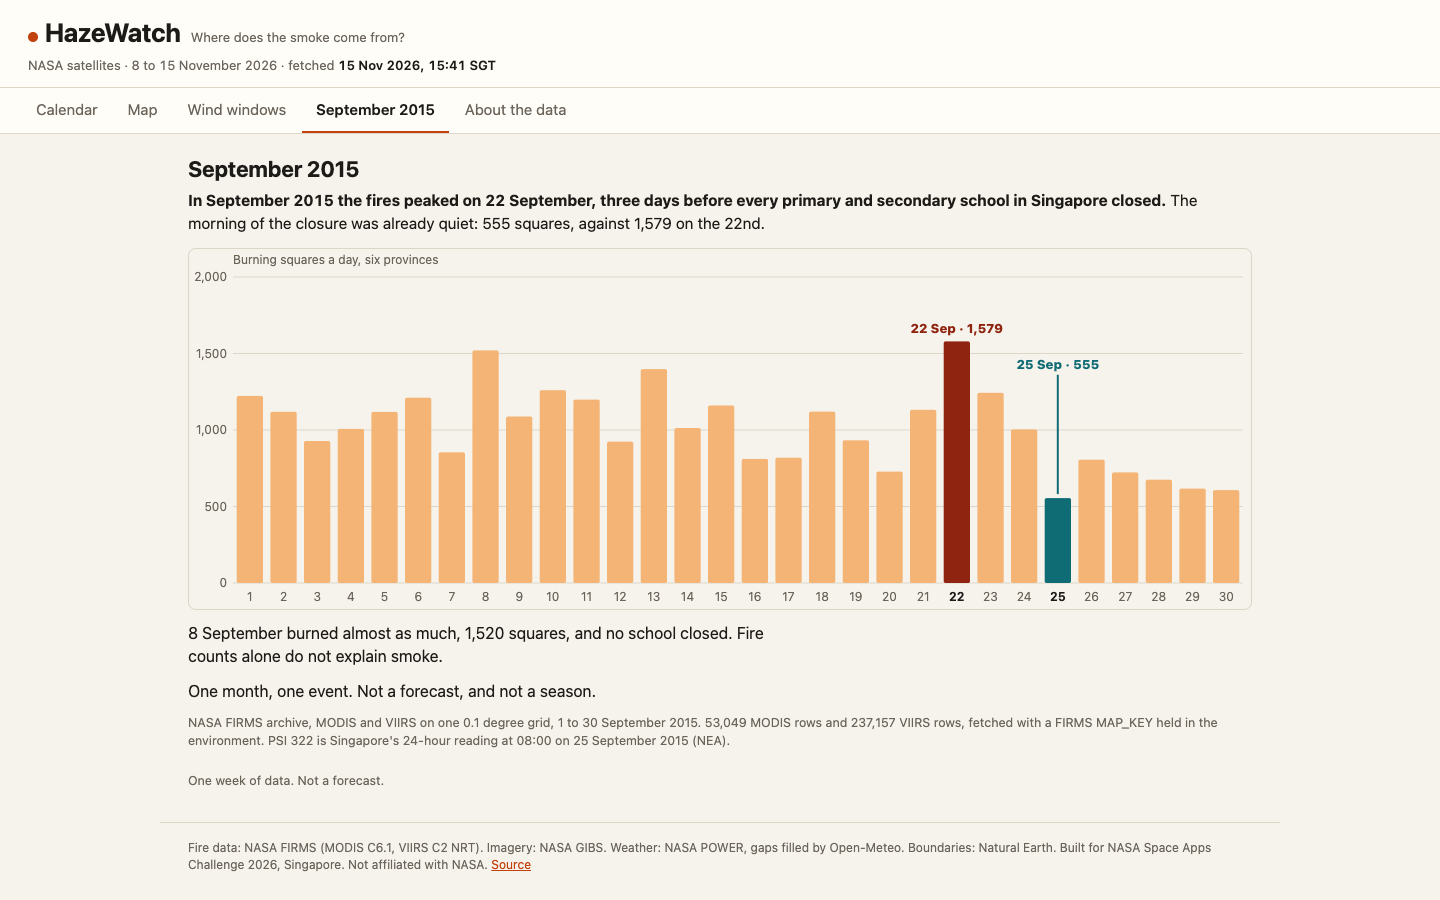
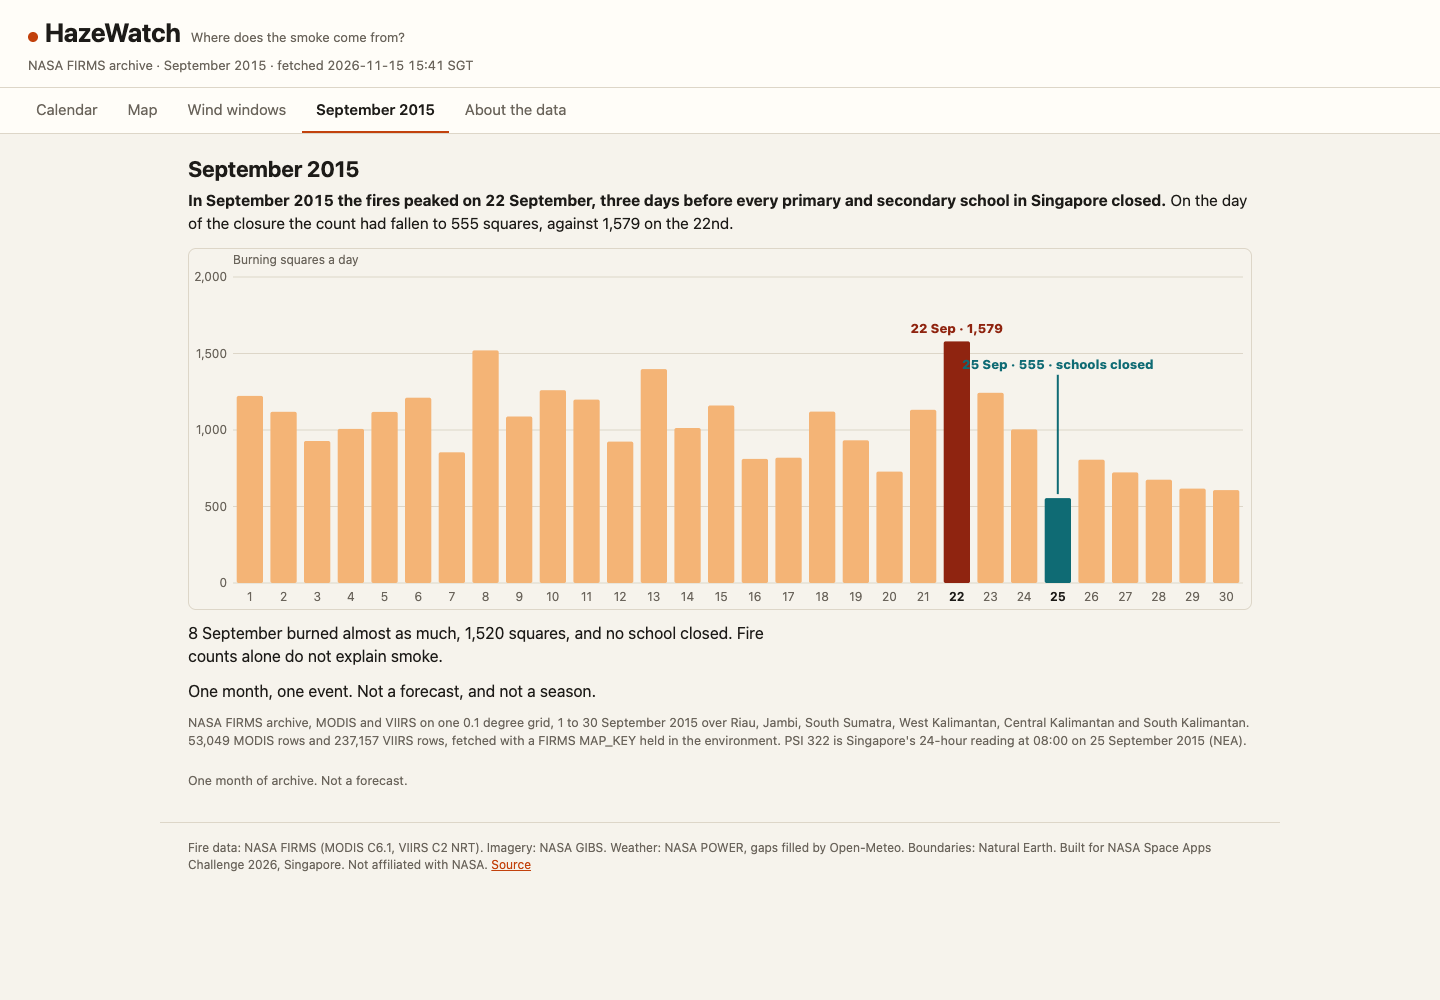
Site 2015 view: match the header to the page, name the provinces, date the bar
Five things a judge flagged on the live page:
- the header still said 8 to 15 November 2026 while the view is September 2015;
- the footer said one week of data, contradicting one month of archive;
- the chart title said six provinces without naming them;
- 'the morning of the closure' implied a morning count, but 555 is a whole day;
- the closure bar said 555 with no reason.

Stamp and footer are now view-aware, the provinces are named in the source line,
the sentence says 'on the day', and the bar reads '555 · schools closed'.

diff --git a/assets/app.js b/assets/app.js
@@ -48,6 +48,11 @@
     VIEWS.forEach((x) => { $("view-" + x).hidden = x !== v; });
     document.querySelectorAll(".tabs a").forEach((a) => a.classList.toggle("on", a.dataset.view === v));
     if (push) history.pushState(null, "", "?view=" + v + (v === "wind" ? "&p=" + prov : ""));
+    if ($("oneweek")) $("oneweek").textContent = v === "2015" ? "One month of archive. Not a forecast." : "One week of data. Not a forecast.";
+    if (S && S.meta) {
+      if (v === "2015") $("stamp").innerHTML = "NASA FIRMS archive · September 2015 · fetched " + esc(S.meta.fetched_sgt);
+      else renderHeader();
+    }
     if (v === "map") renderMap();
     if (v === "2015") renderArchive();
     const on = document.querySelector(".tabs a.on");
@@ -245,13 +250,13 @@
     const second = dates.filter((d) => d !== peak).reduce((a, d) => (T[d] > T[a] ? d : a), dates.find((d) => d !== peak));
     const lead = Math.round((new Date(closure) - new Date(peak)) / 864e5);
     $("arc-lede").innerHTML = "<b>In " + MONTH[+peak.slice(5, 7) - 1] + " " + peak.slice(0, 4) + " the fires peaked on " + longDay(peak) + ", " + (WORDS[lead] || lead) +
-      " days before every primary and secondary school in Singapore closed.</b> The morning of the closure was already quiet: " + fmt(T[closure]) +
+      " days before every primary and secondary school in Singapore closed.</b> On the day of the closure the count had fallen to " + fmt(T[closure]) +
       " squares, against " + fmt(T[peak]) + " on the " + ordinal(dayNum(peak)) + ".";
     $("arc-honest").textContent = second !== closure
       ? longDay(second) + " burned almost as much, " + fmt(T[second]) + " squares, and no school closed. Fire counts alone do not explain smoke." : "";
     const w = ARC.params.window, rows = ARC.rows_fetched;
     $("arc-small").textContent = "NASA FIRMS archive, MODIS and VIIRS on one " + ARC.params.cell_deg + " degree grid, " + dayNum(w[0]) + " to " + longDay(w[1]) + " " + w[1].slice(0, 4) +
-      ". " + fmt(rows.MODIS_SP) + " MODIS rows and " + fmt(rows.VIIRS_SNPP_SP) + " VIIRS rows, fetched with a FIRMS MAP_KEY held in the environment. PSI " + cl.psi_24h_peak +
+      " over Riau, Jambi, South Sumatra, West Kalimantan, Central Kalimantan and South Kalimantan. " + fmt(rows.MODIS_SP) + " MODIS rows and " + fmt(rows.VIIRS_SNPP_SP) + " VIIRS rows, fetched with a FIRMS MAP_KEY held in the environment. PSI " + cl.psi_24h_peak +
       " is Singapore's 24-hour reading at " + cl.psi_24h_peak_time + " on " + longDay(closure) + " " + closure.slice(0, 4) + " (NEA).";
     $("arc-body").hidden = false;
     drawArchiveChart();
@@ -267,7 +272,7 @@
     const est = (t) => t.length * 7.6;
     let s = "<svg width='" + W + "' height='" + H + "' viewBox='0 0 " + W + " " + H + "' role='img' aria-label='Burning squares per day across the six provinces, " +
       esc(longDay(dates[0]) + " to " + longDay(dates[dates.length - 1])) + " " + dates[0].slice(0, 4) + ". Peak " + esc(longDay(peak)) + ", " + fmt(T[peak]) + ". School closure " + esc(longDay(cl)) + ", " + fmt(T[cl]) + ".'>";
-    s += "<text x='" + L + "' y='15' font-size='12' fill='#6a645b'>Burning squares a day, six provinces</text>";
+    s += "<text x='" + L + "' y='15' font-size='12' fill='#6a645b'>Burning squares a day</text>";
     for (let g = 0; g <= ymax; g += 500) {
       s += "<line x1='" + L + "' x2='" + (W - R) + "' y1='" + y(g).toFixed(1) + "' y2='" + y(g).toFixed(1) + "' stroke='#ddd6c8'/>" +
         "<text x='" + (L - 6) + "' y='" + (y(g) + 4).toFixed(1) + "' text-anchor='end' font-size='12' fill='#6a645b'>" + fmt(g) + "</text>";
@@ -281,7 +286,7 @@
     });
     const cx = (d) => L + dates.indexOf(d) * bw + bw / 2;
     const clamp = (c, t) => Math.min(W - 4 - est(t) / 2, Math.max(4 + est(t) / 2, c));
-    const pt = shortDay(peak) + " · " + fmt(T[peak]), ct = shortDay(cl) + " · " + fmt(T[cl]);
+    const pt = shortDay(peak) + " · " + fmt(T[peak]), ct = shortDay(cl) + " · " + fmt(T[cl]) + " · schools closed";
     // narrow: end the peak label at the peak bar so the closure leader line (further right) never crosses it
     s += "<text x='" + (narrow ? cx(peak) + bw * 0.45 : clamp(cx(peak), pt)).toFixed(1) + "' y='" + (y(T[peak]) - 8).toFixed(1) + "' text-anchor='" + (narrow ? "end" : "middle") + "' font-size='13' font-weight='800' fill='#8f2410'>" + esc(pt) + "</text>";
     const cy = narrow ? 44 : y(ymax * 0.7);  // narrow: its own row above the peak label so the two never touch

diff --git a/index.html b/index.html
@@ -113,7 +113,7 @@
     <p class="note">Every number is in <a href="data/facts.json">data/facts.json</a>; the raw files (<a href="https://github.com/lgf2111/hazewatch/tree/main/data/raw">data/raw</a>) and the code (<a href="https://github.com/lgf2111/hazewatch/blob/main/tools/build_snapshot.py">tools/build_snapshot.py</a>) are on <a href="https://github.com/lgf2111/hazewatch">GitHub</a>.</p>
   </section>
 
-  <p class="oneweek">One week of data. Not a forecast.</p>
+  <p class="oneweek" id="oneweek">One week of data. Not a forecast.</p>
 </main>
 
 <footer>
